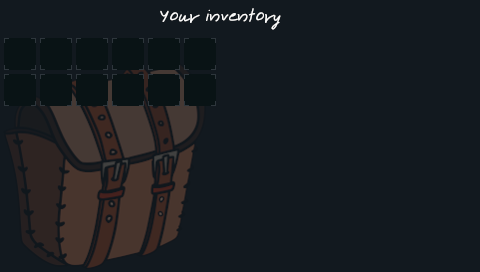
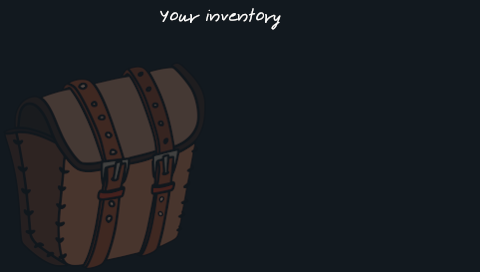
Update inventory interaction

Changed region(s): [[0.0938, 0.2353, 0.4062, 0.4118], [0.0625, 0.2353, 0.0938, 0.2941]]

diff --git a/engine/displays/inventory_display.py b/engine/displays/inventory_display.py
@@ -1,5 +1,6 @@
 # -*- coding: iso-8859-1 -*-
 
+from time import sleep, time
 import psp2d
 
 from engine.displays.display import Display
@@ -15,54 +16,129 @@ class InventoryDisplay(Display):
         (self.background, _) = helper.load_sprite("assets/displays/inventory.png", 
             MAX_WIDTH, MAX_HEIGHT)
         self.item_size = 32
-        (self.item, self.item_selected) = helper.load_sprite("assets/displays/inventory-item.png", 
+        (self.item_background, self.item_selected) = helper.load_sprite("assets/displays/inventory-item.png", 
             self.item_size, self.item_size)
 
+        self.cursor = 0
+        self.nb_items_per_row = 6
+        self.max_items = 36
+
+        ## Cache assets of inventory
+        self.cached_assets = []
+        self.assets_loaded = False
+        self.first_display_time = None
+        
 
     def update(self):
+        ## Slow down the update feature
+        if self.first_display_time is None:
+            self.first_display_time = time()
+            sleep(0.2)
+            return
+        if time() - self.first_display_time < 0.1:
+            return
+        self.first_display_time = time()
+        
+        
         ## The update method is called only for active displays
         controller = psp2d.Controller()
-        if controller.down:
-            direction = "DOWN"
-        elif controller.up:
-            direction = "UP"
-        elif controller.left:
-            direction = "LEFT"
-        elif controller.right:
-            direction = "RIGHT"
+        if controller.down or controller.up or controller.left or controller.right:
+            if controller.down:
+                direction = "DOWN"
+            elif controller.up:
+                direction = "UP"
+            elif controller.left:
+                direction = "LEFT"
+            elif controller.right:
+                direction = "RIGHT"
+            self.update_cursor(direction)
+
         elif controller.cross:
             self.game.close_inventory()
         
+    
+    def update_cursor(self, direction):
+        print("cursor before = %d" % self.cursor)
+        if direction == "DOWN":
+            if self.cursor + self.nb_items_per_row > self.max_items:
+                self.cursor = self.cursor % self.nb_items_per_row
+            else:
+                self.cursor = self.cursor + self.nb_items_per_row
+
+        elif direction == "UP":
+            if self.cursor < self.nb_items_per_row:
+                self.cursor = (self.max_items - self.nb_items_per_row) + self.cursor + 1
+            else:
+                self.cursor = self.cursor - self.nb_items_per_row
+
+        elif direction == "LEFT":
+            if self.cursor % self.nb_items_per_row == 0:
+                self.cursor = self.cursor - 1 + self.nb_items_per_row
+            else:
+                self.cursor = self.cursor - 1
+
+        elif direction == "RIGHT":
+            if (self.cursor + 1) % self.nb_items_per_row == 0:
+                self.cursor = self.cursor + 1 - self.nb_items_per_row
+            else:
+                self.cursor = self.cursor + 1
+        print("      cursor after = %d" % self.cursor)
 
     def draw(self):
         ## Draw background
         self.screen.blit(self.background, 0, 0, MAX_WIDTH, MAX_HEIGHT, 0, 0, True)
 
         ## Get items collected by the player
+        ## Top left position of the first item
         (pos_x, pos_y) = (4, 38)
-        for item in self.game.player.inventory.all_items:
-            agent_metadata = item.metadata
-            #print("agent_metadata.sprite_file: %s" % agent_metadata.sprite_file)
-            ## Display the sprite of the agent
-            asset = psp2d.Image(agent_metadata.sprite_file)
-            (width, height) = (agent_metadata.width, agent_metadata.height)
-            center_offset_x = (self.item_size - width) / 2
-            center_offset_y = (self.item_size - height) / 2
-            self.screen.blit(asset, 0, 0, width, height, 
-                pos_x + center_offset_x, 
-                pos_y + center_offset_y, True)
 
-            ## Display the counter of item
-            text_x = pos_x + 23
-            text_y = pos_y + 18
-            if item.count > 10 :
-                text_y += self.font.textWidth("0")
-            if item.count > 100 :
-                text_y += self.font.textWidth("0")
-            self.font.drawText(self.screen, text_x, text_y, str(item.count))
+        if not self.assets_loaded:
+            for item in self.game.player.inventory.all_items:
+                asset = psp2d.Image(item.metadata.sprite_file)
+                self.cached_assets.append(asset)
+            self.assets_loaded = True
+
+        index = 0
+        #for item in self.game.player.inventory.all_items:
+        for index in range(0, self.max_items):
+            if index == self.cursor:
+                ## Display the selection image of the item
+                self.screen.blit(self.item_selected, 0, 0, self.item_size, self.item_size,
+                    pos_x, pos_y, True)
+            else:
+                ## Display the background of the item
+                self.screen.blit(self.item_background, 0, 0, self.item_size, self.item_size,
+                    pos_x, pos_y, True)
+
+            if index < len(self.game.player.inventory.all_items):
+                item = self.game.player.inventory.all_items[index]
+                agent_metadata = item.metadata
+                #print("agent_metadata.sprite_file: %s" % agent_metadata.sprite_file)
+                ## Display the sprite of the agent
+                asset = self.cached_assets[index]
+                (width, height) = (agent_metadata.width, agent_metadata.height)
+                center_offset_x = (self.item_size - width) / 2
+                center_offset_y = (self.item_size - height) / 2
+                self.screen.blit(asset, 0, 0, width, height, 
+                    pos_x + center_offset_x, 
+                    pos_y + center_offset_y, True)
+
+                ## Display the counter of item
+                text_x = pos_x + 23
+                text_y = pos_y + 18
+                if item.count > 10 :
+                    text_y += self.font.textWidth("0")
+                if item.count > 100 :
+                    text_y += self.font.textWidth("0")
+                self.font.drawText(self.screen, text_x, text_y, str(item.count))
             
             ## Prepare next item
-            pos_x += 36
+            if (index + 1) % self.nb_items_per_row == 0:
+                pos_y += 36
+                pos_x = 4
+            else:
+                pos_x += 36
+            index += 1
 
         ## Add the selected item
         #self.screen.blit(self.item_selected, 0, 0, 32, 32, pos_x, pos_y, True)
